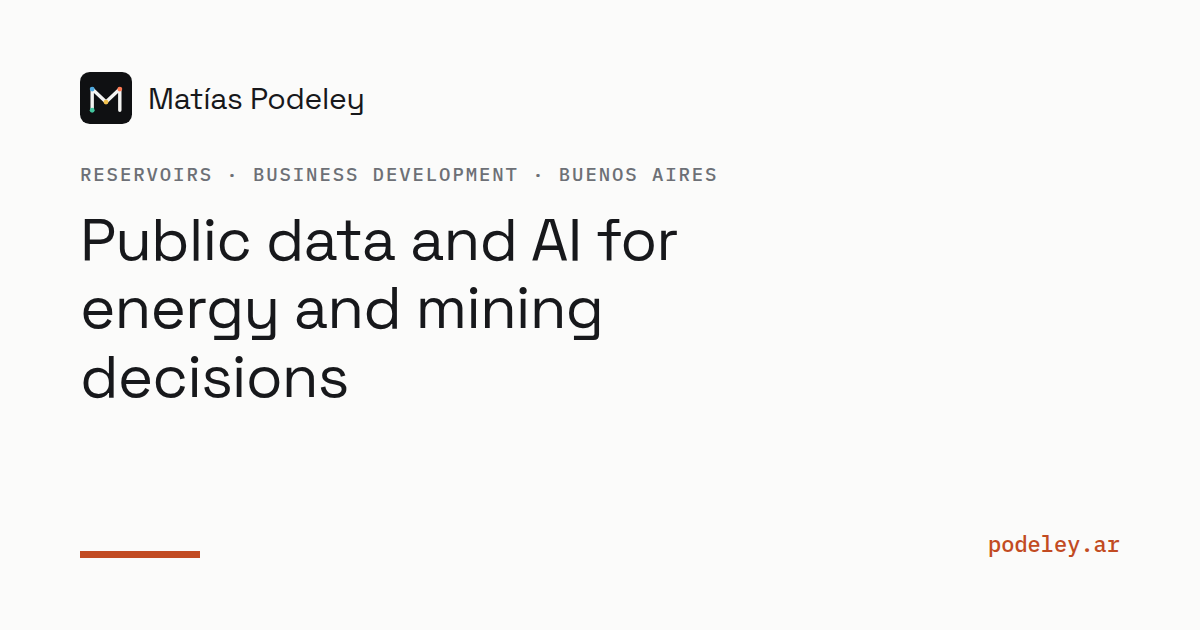
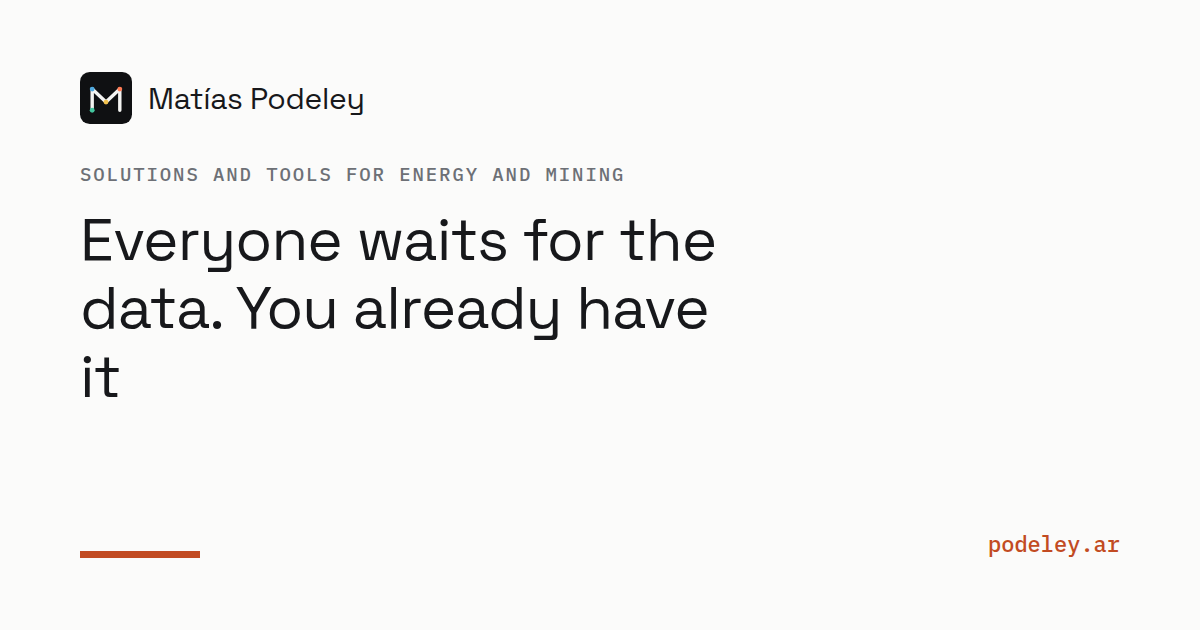
Updates

diff --git a/index.html b/index.html
@@ -3,7 +3,7 @@
 <head>
 <meta charset="utf-8">
 <meta name="viewport" content="width=device-width,initial-scale=1">
-<title>Matías Podeley — herramientas de datos para energía y minería</title>
+<title>Matías Podeley — soluciones y herramientas para energía y minería</title>
 <meta name="description" content="Diez herramientas en línea sobre datos públicos: actividad de la competencia, catastro minero, deformación del suelo, red de gas. Construidas por un ingeniero con dieciocho años en energía.">
 <link rel="canonical" href="https://podeley.ar/">
 <link rel="alternate" hreflang="es" href="https://podeley.ar/">
@@ -13,18 +13,18 @@
 <meta property="og:type" content="website">
 <meta property="og:site_name" content="podeley.ar">
 <meta property="og:locale" content="es_AR">
-<meta property="og:title" content="Matías Podeley — herramientas de datos para energía y minería">
+<meta property="og:title" content="Matías Podeley — soluciones y herramientas para energía y minería">
 <meta property="og:description" content="Diez herramientas en línea sobre datos públicos: actividad de la competencia, catastro minero, deformación del suelo, red de gas. Construidas por un ingeniero con dieciocho años en energía.">
 <meta property="og:image" content="https://podeley.ar/assets/og/home.es.png">
 <meta property="og:image:width" content="1200">
 <meta property="og:image:height" content="630">
-<meta property="og:image:alt" content="Matías Podeley — datos públicos e IA para decisiones de energía y minería">
+<meta property="og:image:alt" content="Matías Podeley — soluciones y herramientas para energía y minería">
 <meta property="og:url" content="https://podeley.ar/">
 <meta name="twitter:card" content="summary_large_image">
-<meta name="twitter:title" content="Matías Podeley — herramientas de datos para energía y minería">
+<meta name="twitter:title" content="Matías Podeley — soluciones y herramientas para energía y minería">
 <meta name="twitter:description" content="Diez herramientas en línea sobre datos públicos: actividad de la competencia, catastro minero, deformación del suelo, red de gas. Construidas por un ingeniero con dieciocho años en energía.">
 <meta name="twitter:image" content="https://podeley.ar/assets/og/home.es.png">
-<meta name="twitter:image:alt" content="Matías Podeley — datos públicos e IA para decisiones de energía y minería">
+<meta name="twitter:image:alt" content="Matías Podeley — soluciones y herramientas para energía y minería">
 <link rel="preload" href="/fonts/space-grotesk-500.woff2" as="font" type="font/woff2" crossorigin>
 <link rel="preload" href="/fonts/ibm-plex-sans-400.woff2" as="font" type="font/woff2" crossorigin>
 <link rel="stylesheet" href="/styles/tokens.css">
@@ -61,8 +61,8 @@
 <main id="main">
 <section class="hero wrap">
   <p class="kicker"><a class="link-plain" href="/perfil/">Matías Podeley</a> · Reservorios y desarrollo de negocio · Buenos Aires</p>
-  <h1>Datos públicos e IA para decisiones de energía y minería</h1>
-  <p class="hero-sub">Diez herramientas en línea, construidas por un ingeniero con dieciocho años adentro de la industria. Qué hizo la competencia mientras el registro oficial todavía no lo dice, quién tiene el suelo en seis provincias, cómo viene la red de gas esta mañana — y de dónde sale cada número.</p>
+  <h1>Todos esperan el dato. Vos ya lo tenés</h1>
+  <p class="hero-sub">Soluciones y herramientas para energía y minería: diez están en línea, construidas con datos públicos e IA por un ingeniero con dieciocho años adentro de la industria. Qué hizo la competencia mientras el registro oficial todavía no lo dice, quién tiene el suelo en seis provincias, cómo viene la red de gas esta mañana — y de dónde sale cada número.</p>
   <p class="hero-cta"><a class="btn btn--primary" href="mailto:matias@podeley.ar?subject=Consulta%20%E2%80%94%20podeley.ar&amp;body=Hola%20Matias%2C%0A%0A">Contame qué decisión tenés adelante</a> <a class="link-plain" href="#areas">Ver por área <span class="arw">↓</span></a></p>
 </section>
 

diff --git a/en/index.html b/en/index.html
@@ -3,7 +3,7 @@
 <head>
 <meta charset="utf-8">
 <meta name="viewport" content="width=device-width,initial-scale=1">
-<title>Matías Podeley — data tools for energy and mining</title>
+<title>Matías Podeley — solutions and tools for energy and mining</title>
 <meta name="description" content="Ten live tools on public data: competitor activity, mining title, ground deformation, the gas network. Built by an engineer with eighteen years in energy.">
 <link rel="canonical" href="https://podeley.ar/en/">
 <link rel="alternate" hreflang="es" href="https://podeley.ar/">
@@ -13,18 +13,18 @@
 <meta property="og:type" content="website">
 <meta property="og:site_name" content="podeley.ar">
 <meta property="og:locale" content="en">
-<meta property="og:title" content="Matías Podeley — data tools for energy and mining">
+<meta property="og:title" content="Matías Podeley — solutions and tools for energy and mining">
 <meta property="og:description" content="Ten live tools on public data: competitor activity, mining title, ground deformation, the gas network. Built by an engineer with eighteen years in energy.">
 <meta property="og:image" content="https://podeley.ar/assets/og/home.en.png">
 <meta property="og:image:width" content="1200">
 <meta property="og:image:height" content="630">
-<meta property="og:image:alt" content="Matías Podeley — public data and AI for energy and mining decisions">
+<meta property="og:image:alt" content="Matías Podeley — solutions and tools for energy and mining">
 <meta property="og:url" content="https://podeley.ar/en/">
 <meta name="twitter:card" content="summary_large_image">
-<meta name="twitter:title" content="Matías Podeley — data tools for energy and mining">
+<meta name="twitter:title" content="Matías Podeley — solutions and tools for energy and mining">
 <meta name="twitter:description" content="Ten live tools on public data: competitor activity, mining title, ground deformation, the gas network. Built by an engineer with eighteen years in energy.">
 <meta name="twitter:image" content="https://podeley.ar/assets/og/home.en.png">
-<meta name="twitter:image:alt" content="Matías Podeley — public data and AI for energy and mining decisions">
+<meta name="twitter:image:alt" content="Matías Podeley — solutions and tools for energy and mining">
 <link rel="preload" href="/fonts/space-grotesk-500.woff2" as="font" type="font/woff2" crossorigin>
 <link rel="preload" href="/fonts/ibm-plex-sans-400.woff2" as="font" type="font/woff2" crossorigin>
 <link rel="stylesheet" href="/styles/tokens.css">
@@ -61,8 +61,8 @@
 <main id="main">
 <section class="hero wrap">
   <p class="kicker"><a class="link-plain" href="/en/perfil/">Matías Podeley</a> · Reservoir engineering &amp; business development · Buenos Aires</p>
-  <h1>Public data and AI for energy and mining decisions</h1>
-  <p class="hero-sub">Ten tools, live, built by an engineer with eighteen years inside the industry. What competitors did while the official registry still says nothing, who holds the ground across six provinces, how the gas grid looks this morning — and where every number comes from.</p>
+  <h1>Everyone waits for the data. You already have it</h1>
+  <p class="hero-sub">Solutions and tools for energy and mining: ten are live, built from public data and AI by an engineer with eighteen years inside the industry. What competitors did while the official registry still says nothing, who holds the ground across six provinces, how the gas grid looks this morning — and where every number comes from.</p>
   <p class="hero-cta"><a class="btn btn--primary" href="mailto:matias@podeley.ar?subject=Inquiry%20%E2%80%94%20podeley.ar&amp;body=Hi%20Matias%2C%0A%0A">Tell me what decision you're facing</a> <a class="link-plain" href="#areas">Browse by area <span class="arw">↓</span></a></p>
 </section>
 
